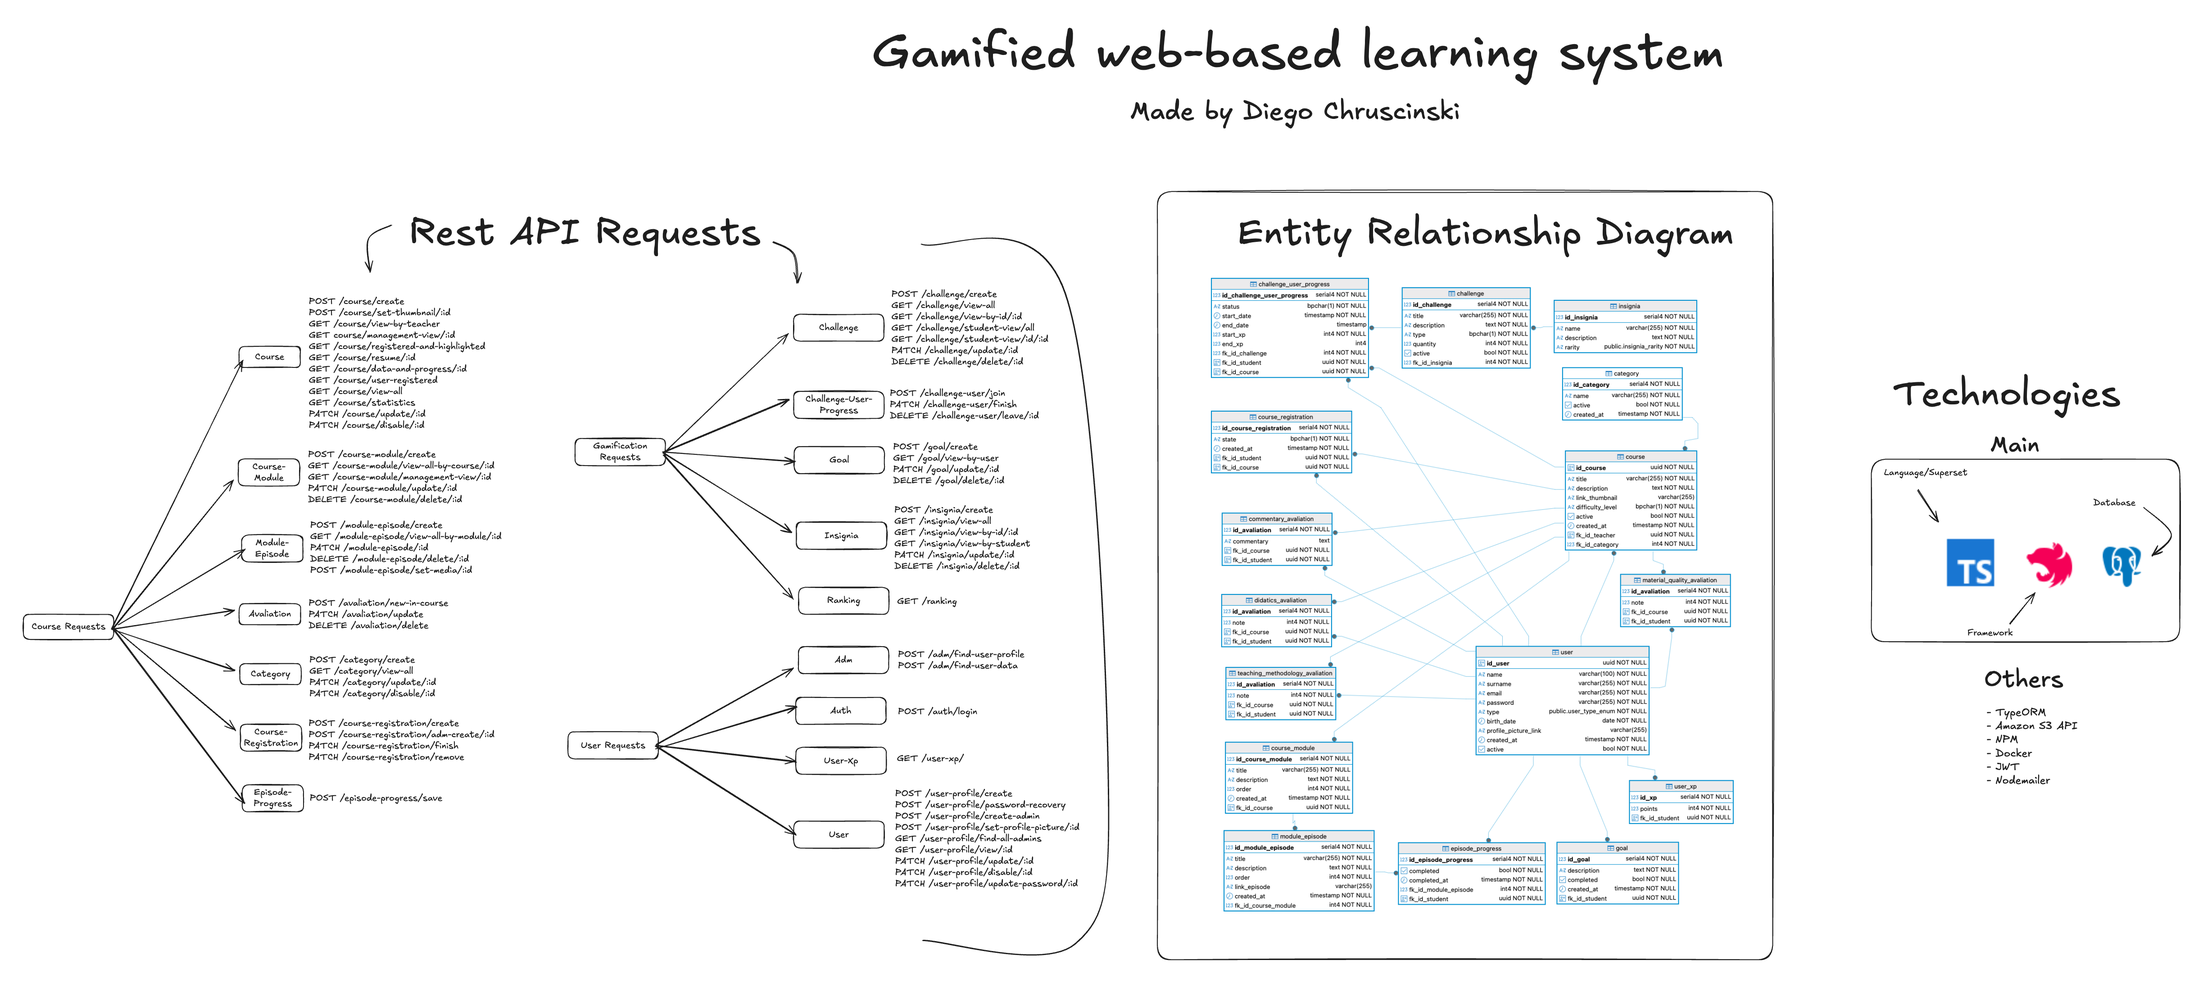
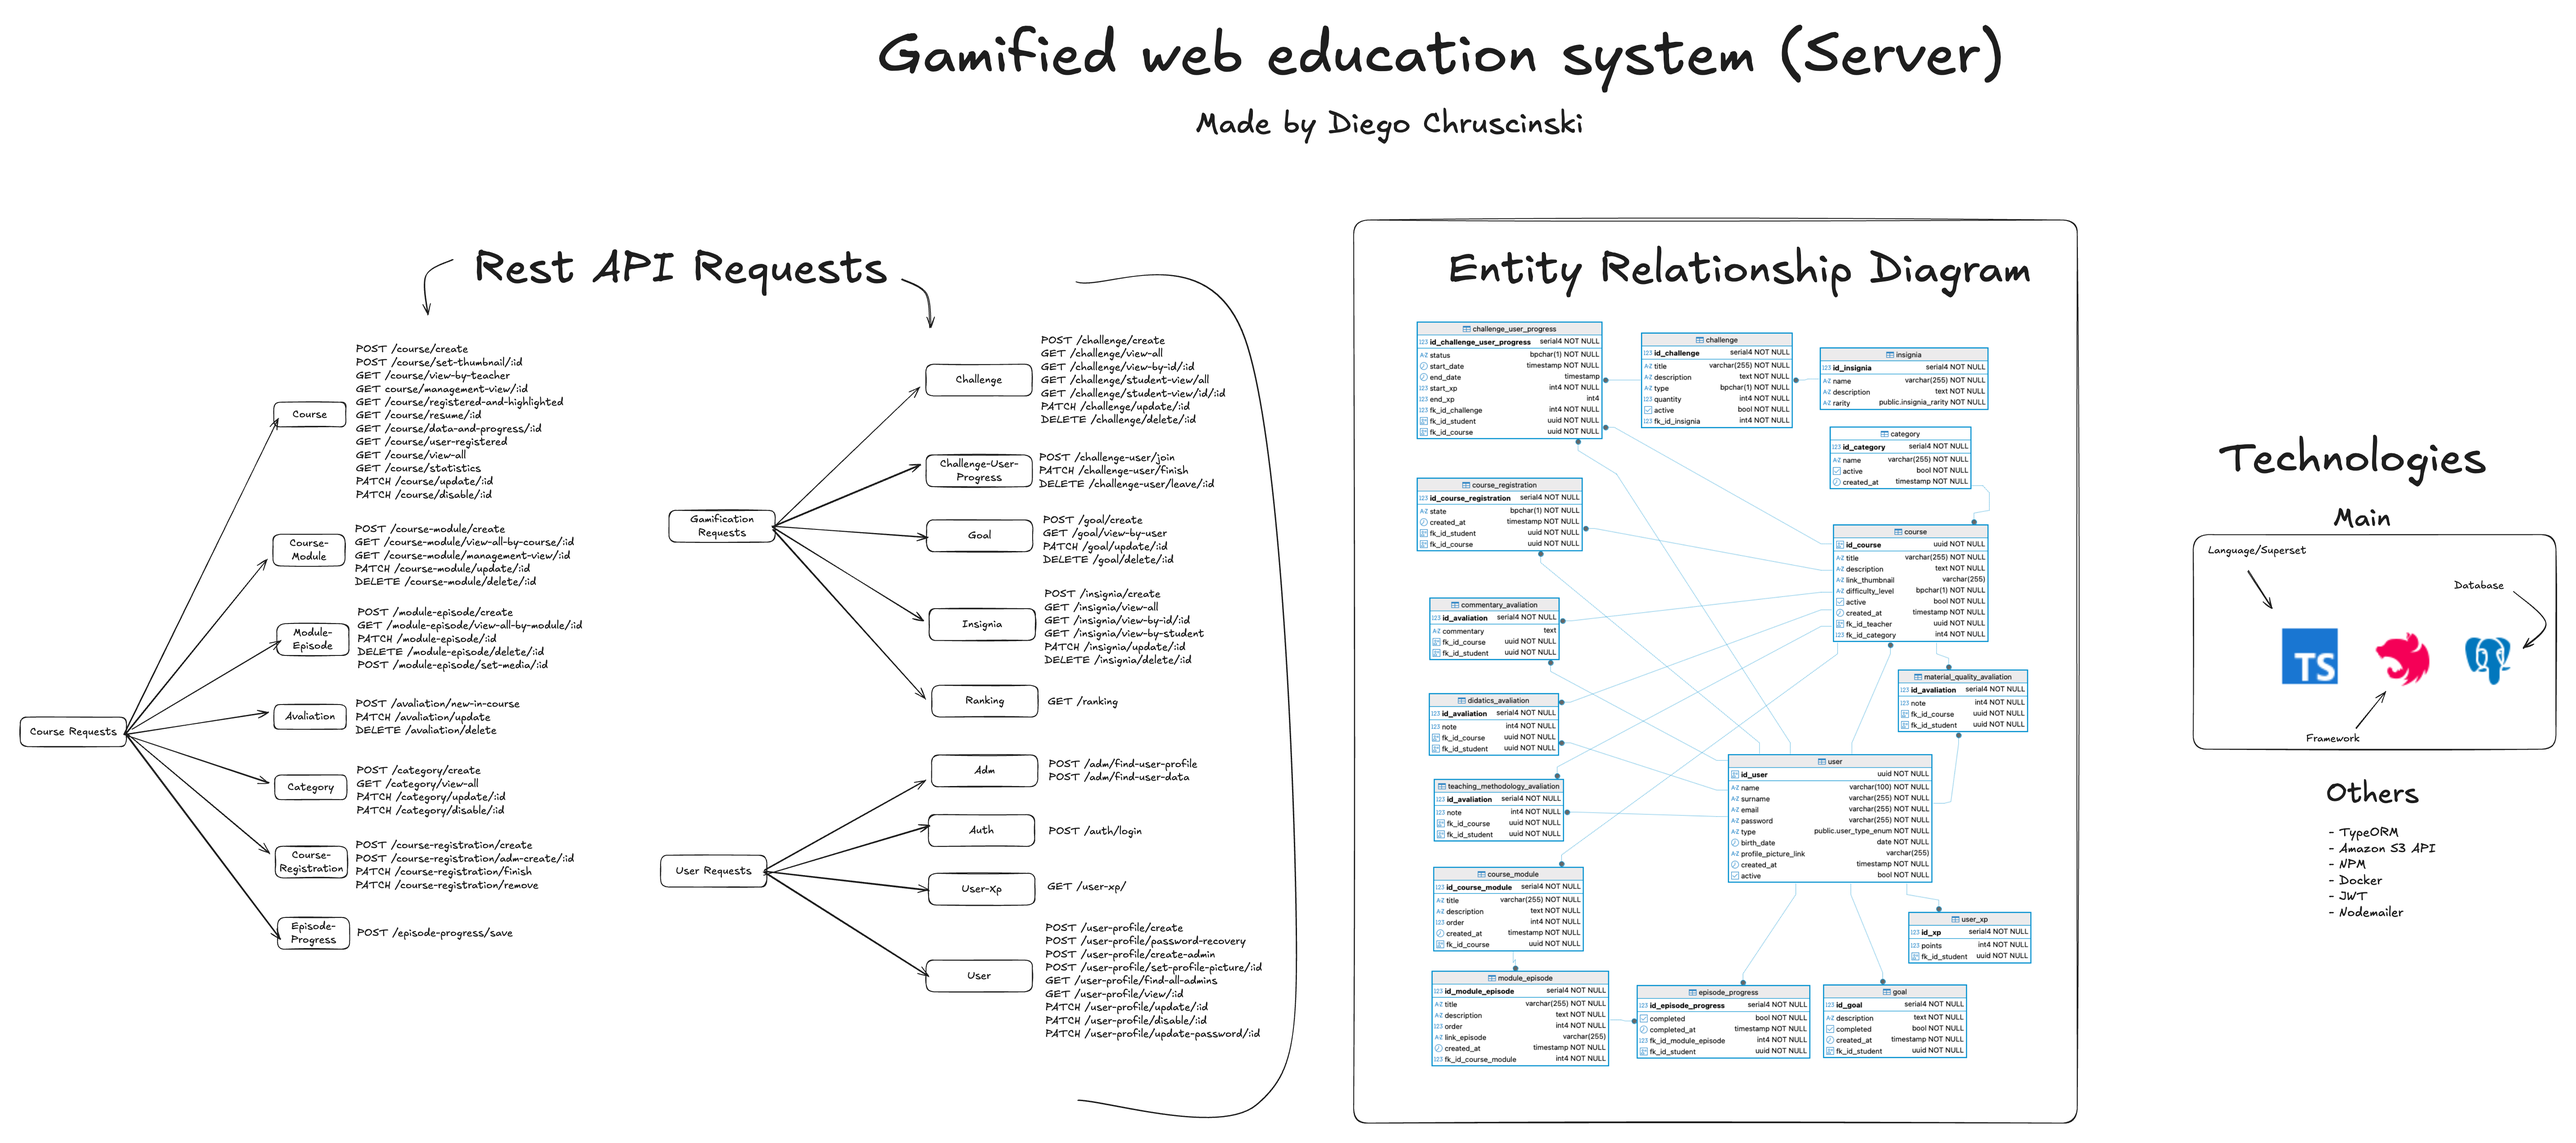
update: README.MD

diff --git a/README.md b/README.md
@@ -1,4 +1,4 @@
-# 🎮 Gamified Web-based Learning System — Backend (NestJS)
+# 🎮 Gamified web education system - server
 
 Backend for my undergraduate capstone project (TCC): a web-based learning platform with **gamification**, built to increase engagement and improve student progress tracking through **XP**, **challenges**, **goals**, **badges**, and **ranking**. This work was approved by the evaluation committee with an average score of **9.9/10**.
 
@@ -55,7 +55,7 @@ The project also demonstrates important backend practices: **modular architectur
 
 ---
 
-## 🧰 Tech stack
+## Tech stack
 
 ### Core
 - **TypeScript**
@@ -78,13 +78,15 @@ The project also demonstrates important backend practices: **modular architectur
 git clone https://github.com/chruscinskiDiego/gamified-web-education-system-server
 cd gamified-web-education-system-server
 
+```
+
+```bash
 # 2) Install dependencies
 npm install
+```
 
-# 3) Start Postgres (Docker Compose)
-docker compose up -d
-
-# 4) Create .env (edit the VALUE placeholders afterwards)
+```bash
+# 3) Create .env
 cat > .env << 'EOF'
 # =========================
 # APP
@@ -101,7 +103,6 @@ DB_DATABASE=VALUE
 DB_USERNAME=VALUE
 DB_PASSWORD=VALUE
 
-# (Optional: if your project uses these compose variables)
 DB_COMPOSE_PORTS=VALUE
 DB_COMPOSE_POSTGRES_USER=VALUE
 DB_COMPOSE_POSTGRES_PASSWORD=VALUE
@@ -116,7 +117,7 @@ JWT_TOKEN_ISSUER=VALUE
 JWT_TOKEN_EXPIRATION=3600
 
 # =========================
-# AWS S3 SETTINGS (OPTIONAL)
+# AWS S3 SETTINGS
 # =========================
 AWS_REGION=sa-east-1
 AWS_ACCESS_KEY_ID=VALUE
@@ -124,7 +125,7 @@ AWS_SECRET_ACCESS_KEY=VALUE
 S3_BUCKET_NAME=VALUE
 
 # =========================
-# EMAIL SETTINGS (OPTIONAL)
+# EMAIL SETTINGS
 # =========================
 SMTP_HOST=VALUE
 SMTP_PORT=VALUE
@@ -133,6 +134,13 @@ SMTP_USER=VALUE
 SMTP_PASS=VALUE
 MAIL_FROM=VALUE
 EOF
+```
 
+```bash
+# 4) Start Postgres (Docker Compose)
+docker compose up -d
+```
+
+```bash
 # 5) Run the API (development)
 npm run start:dev
